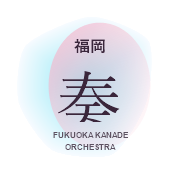
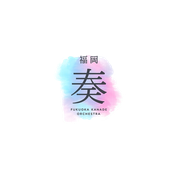
debug piece

diff --git a/src/static/js/app.js b/src/static/js/app.js
@@ -5,7 +5,7 @@
     youtube: 'https://www.youtube.com/@fukuoka-kanade-orchestra'
 };
 
-const KANADE_PORTAL_ICON = '/static/img/kanade-icon.svg';
+const KANADE_PORTAL_ICON = '/static/img/kanade-icon.png';
 
 const KANADE_MEMBER_PROFILES = [
     {
@@ -157,24 +157,16 @@ function switchTab(panelId, tabName) {
     }
 }
 
-async function reloadPortal() {
+function reloadPortal() {
     const button = $('portalReloadBtn');
-    const originalText = button.textContent;
-    button.disabled = true;
-    button.textContent = 'リロード中...';
-    try {
-        await Promise.all([loadAll(), loadPortalData()]);
-        if (!$('memberPanel').hidden) {
-            renderMemberViews();
-        }
-        showAlert('最新情報に更新しました', 'success');
-    } catch (error) {
-        console.error(error);
-        showAlert(`リロードに失敗しました: ${error.message}`, 'danger');
-    } finally {
-        button.disabled = false;
-        button.textContent = originalText;
+    if (button) {
+        button.disabled = true;
+        button.textContent = '更新中...';
     }
+
+    // ブラウザの更新ボタンと同じく、ページ全体を再読み込みする。
+    // 再ビルド後のHTML/JS/CSS/アイコンも取り直せるよう、キャッシュ対策はサーバ側ヘッダーで行う。
+    window.location.reload();
 }
 
 function toPascalTab(value) {

diff --git a/src/index.html b/src/index.html
@@ -6,11 +6,14 @@
     <title>奏オケポータル</title>
     <link href="https://cdn.jsdelivr.net/npm/bootstrap@5.3.0/dist/css/bootstrap.min.css" rel="stylesheet">
     <link rel="stylesheet" href="/static/css/style.css">
-    <link rel="icon" type="image/svg+xml" href="/static/img/kanade-icon.svg">
+    <link rel="icon" type="image/png" href="/static/img/kanade-icon.png">
     <link rel="apple-touch-icon" sizes="180x180" href="/static/img/apple-touch-icon.png">
+    <link rel="icon" type="image/png" sizes="192x192" href="/static/img/favicon-192.png">
+    <link rel="icon" type="image/png" sizes="512x512" href="/static/img/favicon-512.png">
     <meta name="apple-mobile-web-app-title" content="奏オケポータル">
     <meta name="application-name" content="奏オケポータル">
     <meta name="theme-color" content="#ffffff">
+    <link rel="manifest" href="/static/site.webmanifest">
 </head>
 <body>
     <nav class="navbar navbar-expand-lg bg-white border-bottom sticky-top">

diff --git a/src/backend/main.py b/src/backend/main.py
@@ -98,6 +98,17 @@ app.add_middleware(
     allow_headers=["*"],
 )
 
+@app.middleware("http")
+async def add_no_cache_headers(request: Request, call_next):
+    response = await call_next(request)
+    path = request.url.path
+    if path == "/" or path.startswith("/static/"):
+        response.headers["Cache-Control"] = "no-store, no-cache, must-revalidate, max-age=0"
+        response.headers["Pragma"] = "no-cache"
+        response.headers["Expires"] = "0"
+    return response
+
+
 app.mount("/static", StaticFiles(directory=STATIC_DIR), name="static")
 
 
@@ -461,7 +472,7 @@ def convert_uploaded_storage_wav_to_mp3(
 
 @app.get("/")
 async def root() -> FileResponse:
-    return FileResponse(BASE_DIR / "index.html")
+    return FileResponse(BASE_DIR / "index.html", headers={"Cache-Control": "no-store, no-cache, must-revalidate, max-age=0", "Pragma": "no-cache", "Expires": "0"})
 
 
 @app.get("/api/health")
